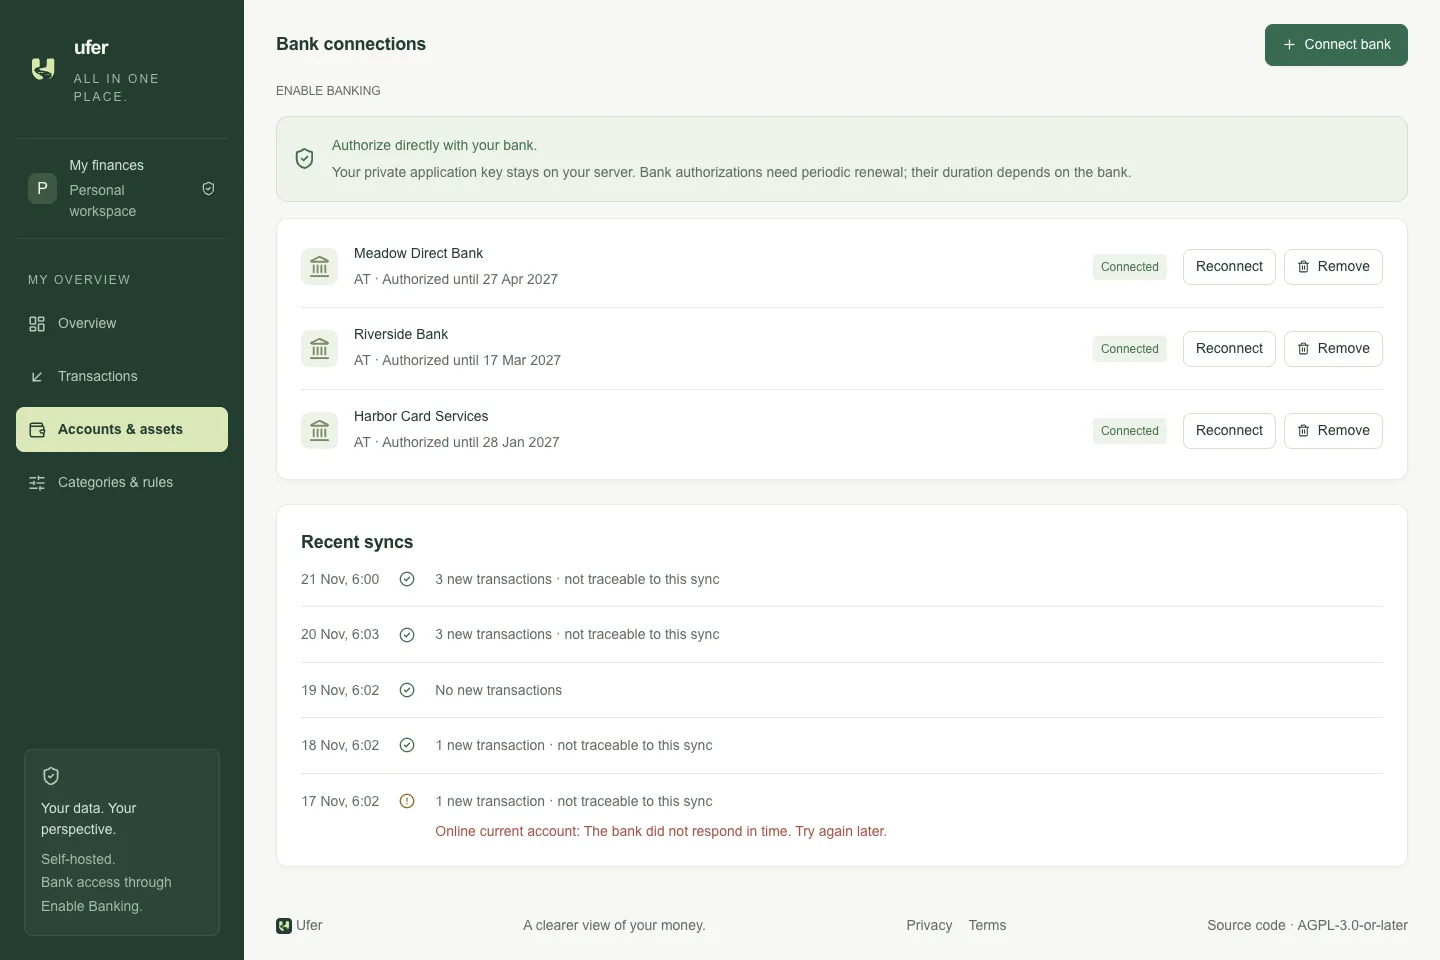
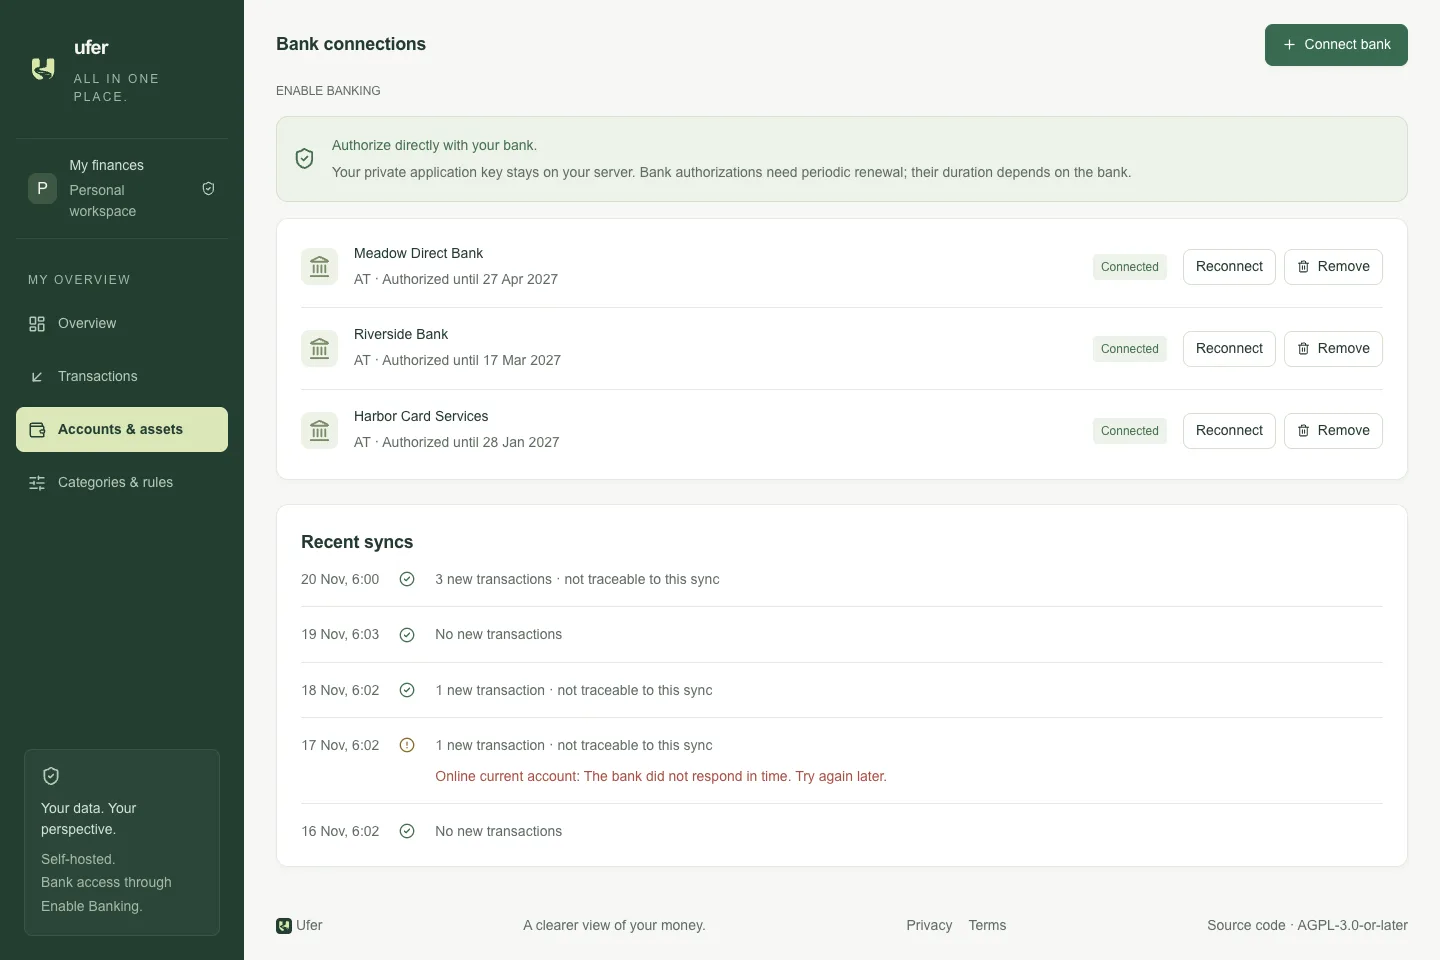
Keep demo balance columns empty and end sync history yesterday

diff --git a/tests/demo-seed.test.ts b/tests/demo-seed.test.ts
@@ -186,8 +186,12 @@ test("re-running the demo seed replaces only demo rows and keeps bank-connected 
 
   assert.deepEqual(bankAccounts.map(account => account.id).sort(), ["demo-checking", "demo-credit-card", "demo-joint", "demo-online-checking", "demo-savings"]);
   assert.ok(manualAccounts.every(account => account.balance_minor === null && typeof balances.get(account.id) === "number"));
-  // A simulated connection reports the balance the transactions add up to, as after a sync that matched.
-  assert.ok(bankAccounts.every(account => account.requisition_id?.startsWith("demo-connection-") && account.last_synced_at !== null && account.balance_minor === balances.get(account.id)));
+  const reported = new Map((await db.select().from(schema.balanceSnapshots).where(like(schema.balanceSnapshots.account_id, "demo-%"))).map(row => [row.account_id, row.amount_minor]));
+
+  // A simulated connection reports the balance the transactions add up to, as after a sync that matched; the deprecated balance columns stay empty.
+  assert.ok(bankAccounts.every(account => account.requisition_id?.startsWith("demo-connection-") && account.last_synced_at !== null && account.balance_minor === null && reported.get(account.id) === balances.get(account.id)));
+  // The latest sync run lies before the run date, so it is never in the future.
+  assert.ok(bankAccounts.every(account => account.last_synced_at !== null && account.last_synced_at < "2026-12-01"));
   // A category someone created with the same name is reused instead of adding a conflicting demo category.
   assert.equal(diningRule?.category_id, "reviewer-dining");
   assert.equal(await db.select().from(schema.categories).where(eq(schema.categories.id, "demo-dining")).get(), undefined);

diff --git a/src/features/demo/server/demo-dataset.ts b/src/features/demo/server/demo-dataset.ts
@@ -937,7 +937,7 @@ function connectionData(runDate: PlainDate) {
   });
 }
 
-/** Two weeks of daily scheduled syncs; one run could not reach a bank and the next run caught up. */
+/** Two weeks of daily scheduled syncs ending yesterday, so no run lies in the future whenever the seed runs; one run could not reach a bank and the next run caught up. */
 function syncRunHistory(ledger: Ledger, random: DemoRandom): DemoSyncRun[] {
   const bankAccounts = (Object.keys(demoAccounts) as DemoAccountKey[]).filter(key => demoAccounts[key].bank);
   const runs: DemoSyncRun[] = [];
@@ -945,7 +945,7 @@ function syncRunHistory(ledger: Ledger, random: DemoRandom): DemoSyncRun[] {
   const bookedOn = (key: DemoAccountKey, date: PlainDate) => ledger.entries[key].filter(entry => entry.date === date.toString()).length;
   let missed = 0;
 
-  for (let daysAgo = 13; daysAgo >= 0; daysAgo--) {
+  for (let daysAgo = 14; daysAgo >= 1; daysAgo--) {
     const date = ledger.runDate.subtract({
       days: daysAgo
     });

diff --git a/src/features/demo/server/demo-seed-repository.ts b/src/features/demo/server/demo-seed-repository.ts
@@ -132,8 +132,6 @@ async function insertAccount(tx: DatabaseTransaction, account: DemoAccountRows, 
     provider_uid: bank ? `${account.id}-uid` : null,
     requisition_id: bank ? demoConnections[bank.connection].id : null,
     iban: bank?.iban ?? null,
-    balance_minor: bank ? account.closing.amount : null,
-    balance_date: bank ? account.closing.date : null,
     last_synced_at: bank ? lastSyncedAt : null
   });
   await recordManualBalance(tx, demoAccount(account), account.opening.date, account.opening.amount);
